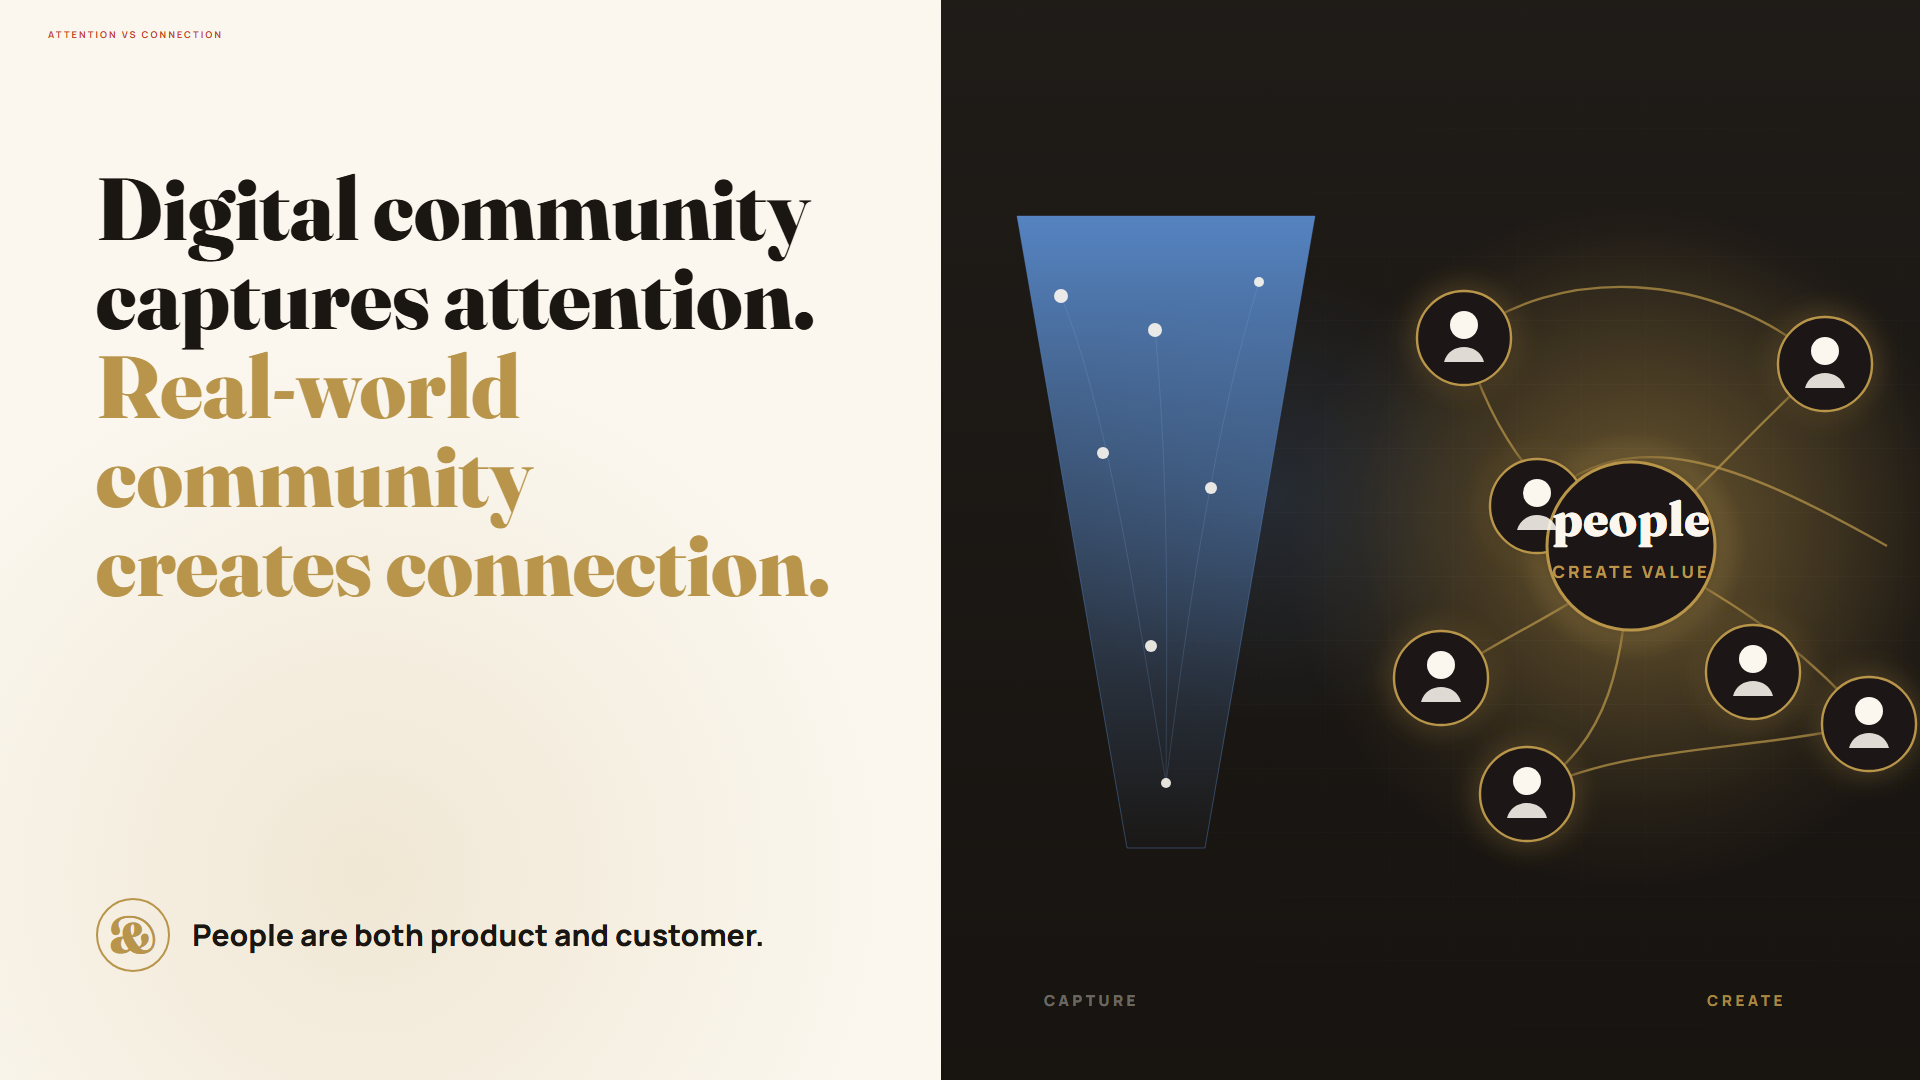
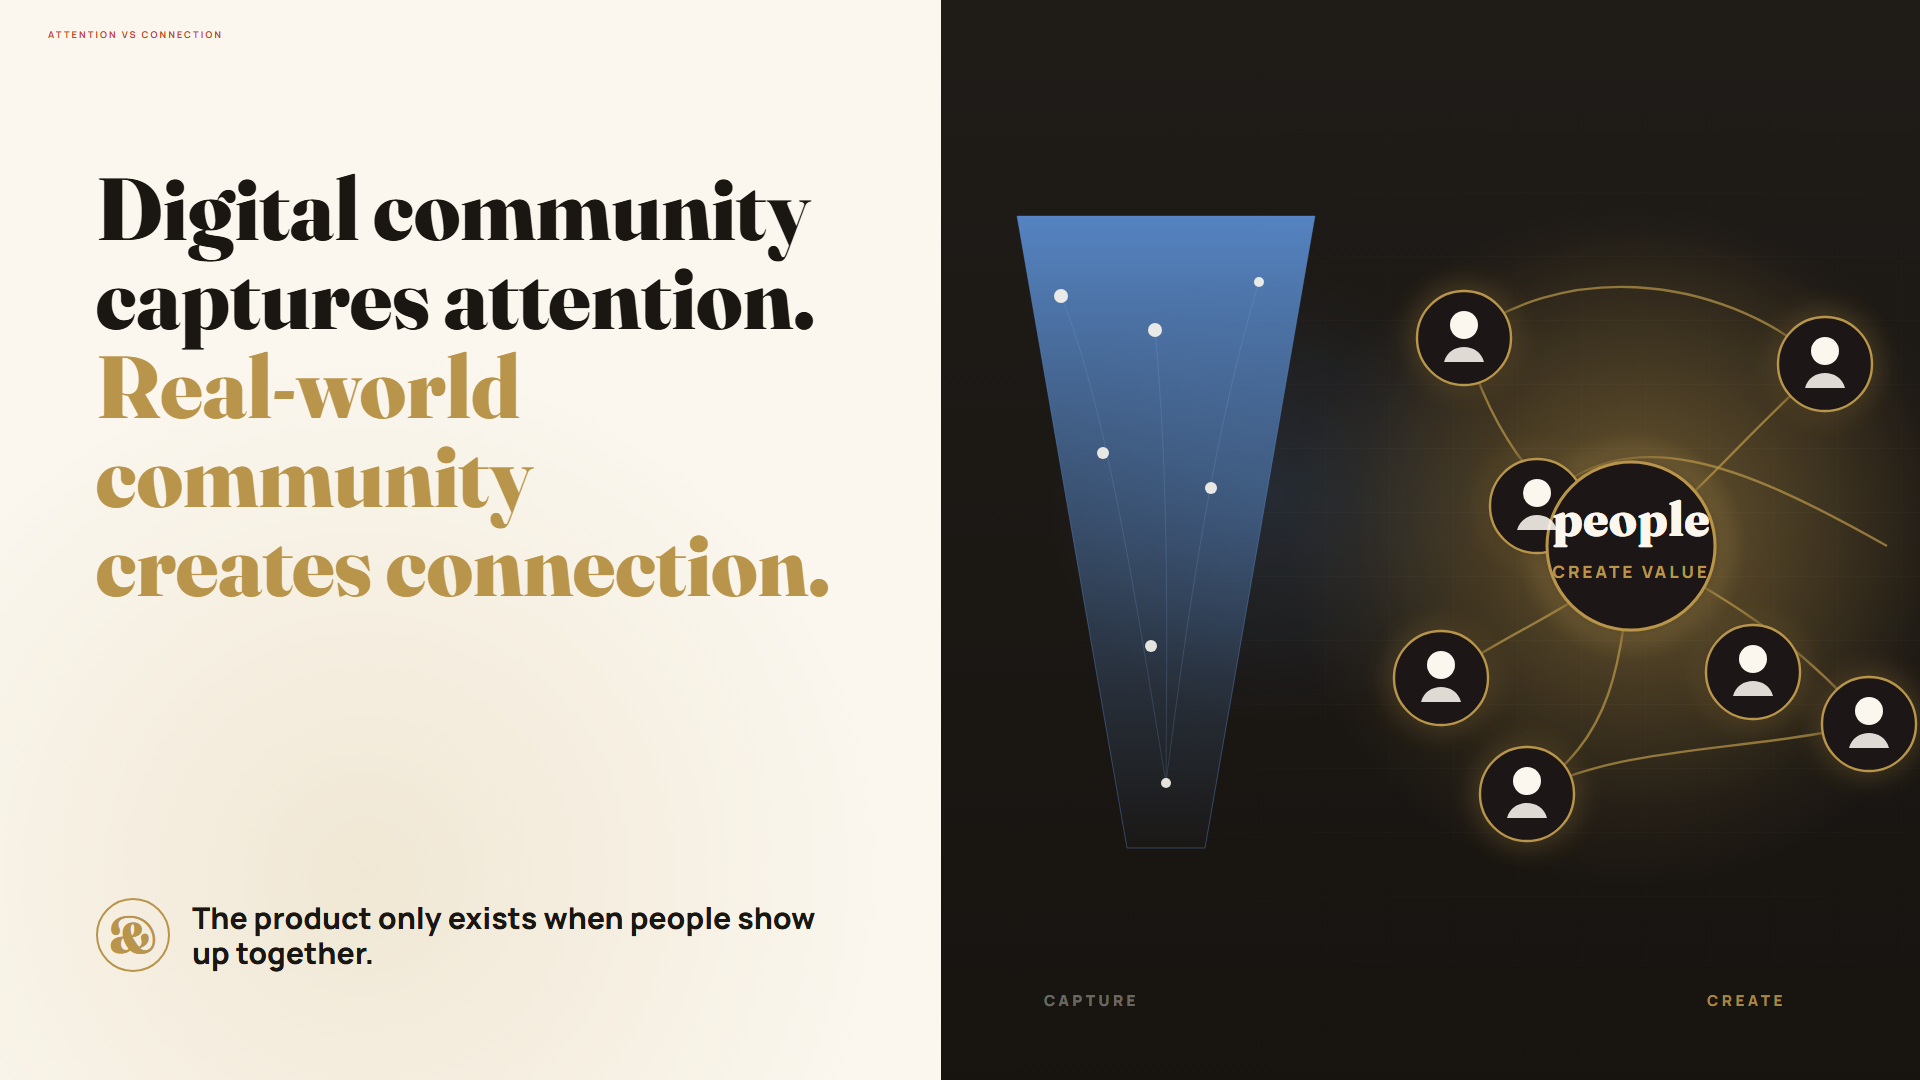
Sharpen real-world community proof line

Changed region(s): [[0.0938, 0.825, 0.4375, 0.9167]]

diff --git a/community_value_attention_connection_final.html b/community_value_attention_connection_final.html
@@ -182,7 +182,7 @@
 
     <div class="proof">
       <div class="proof-mark">&amp;</div>
-      <div class="proof-copy">People are both product and customer.</div>
+      <div class="proof-copy">The product only exists when people show up together.</div>
     </div>
 
     <div class="dark-field" aria-hidden="true"></div>